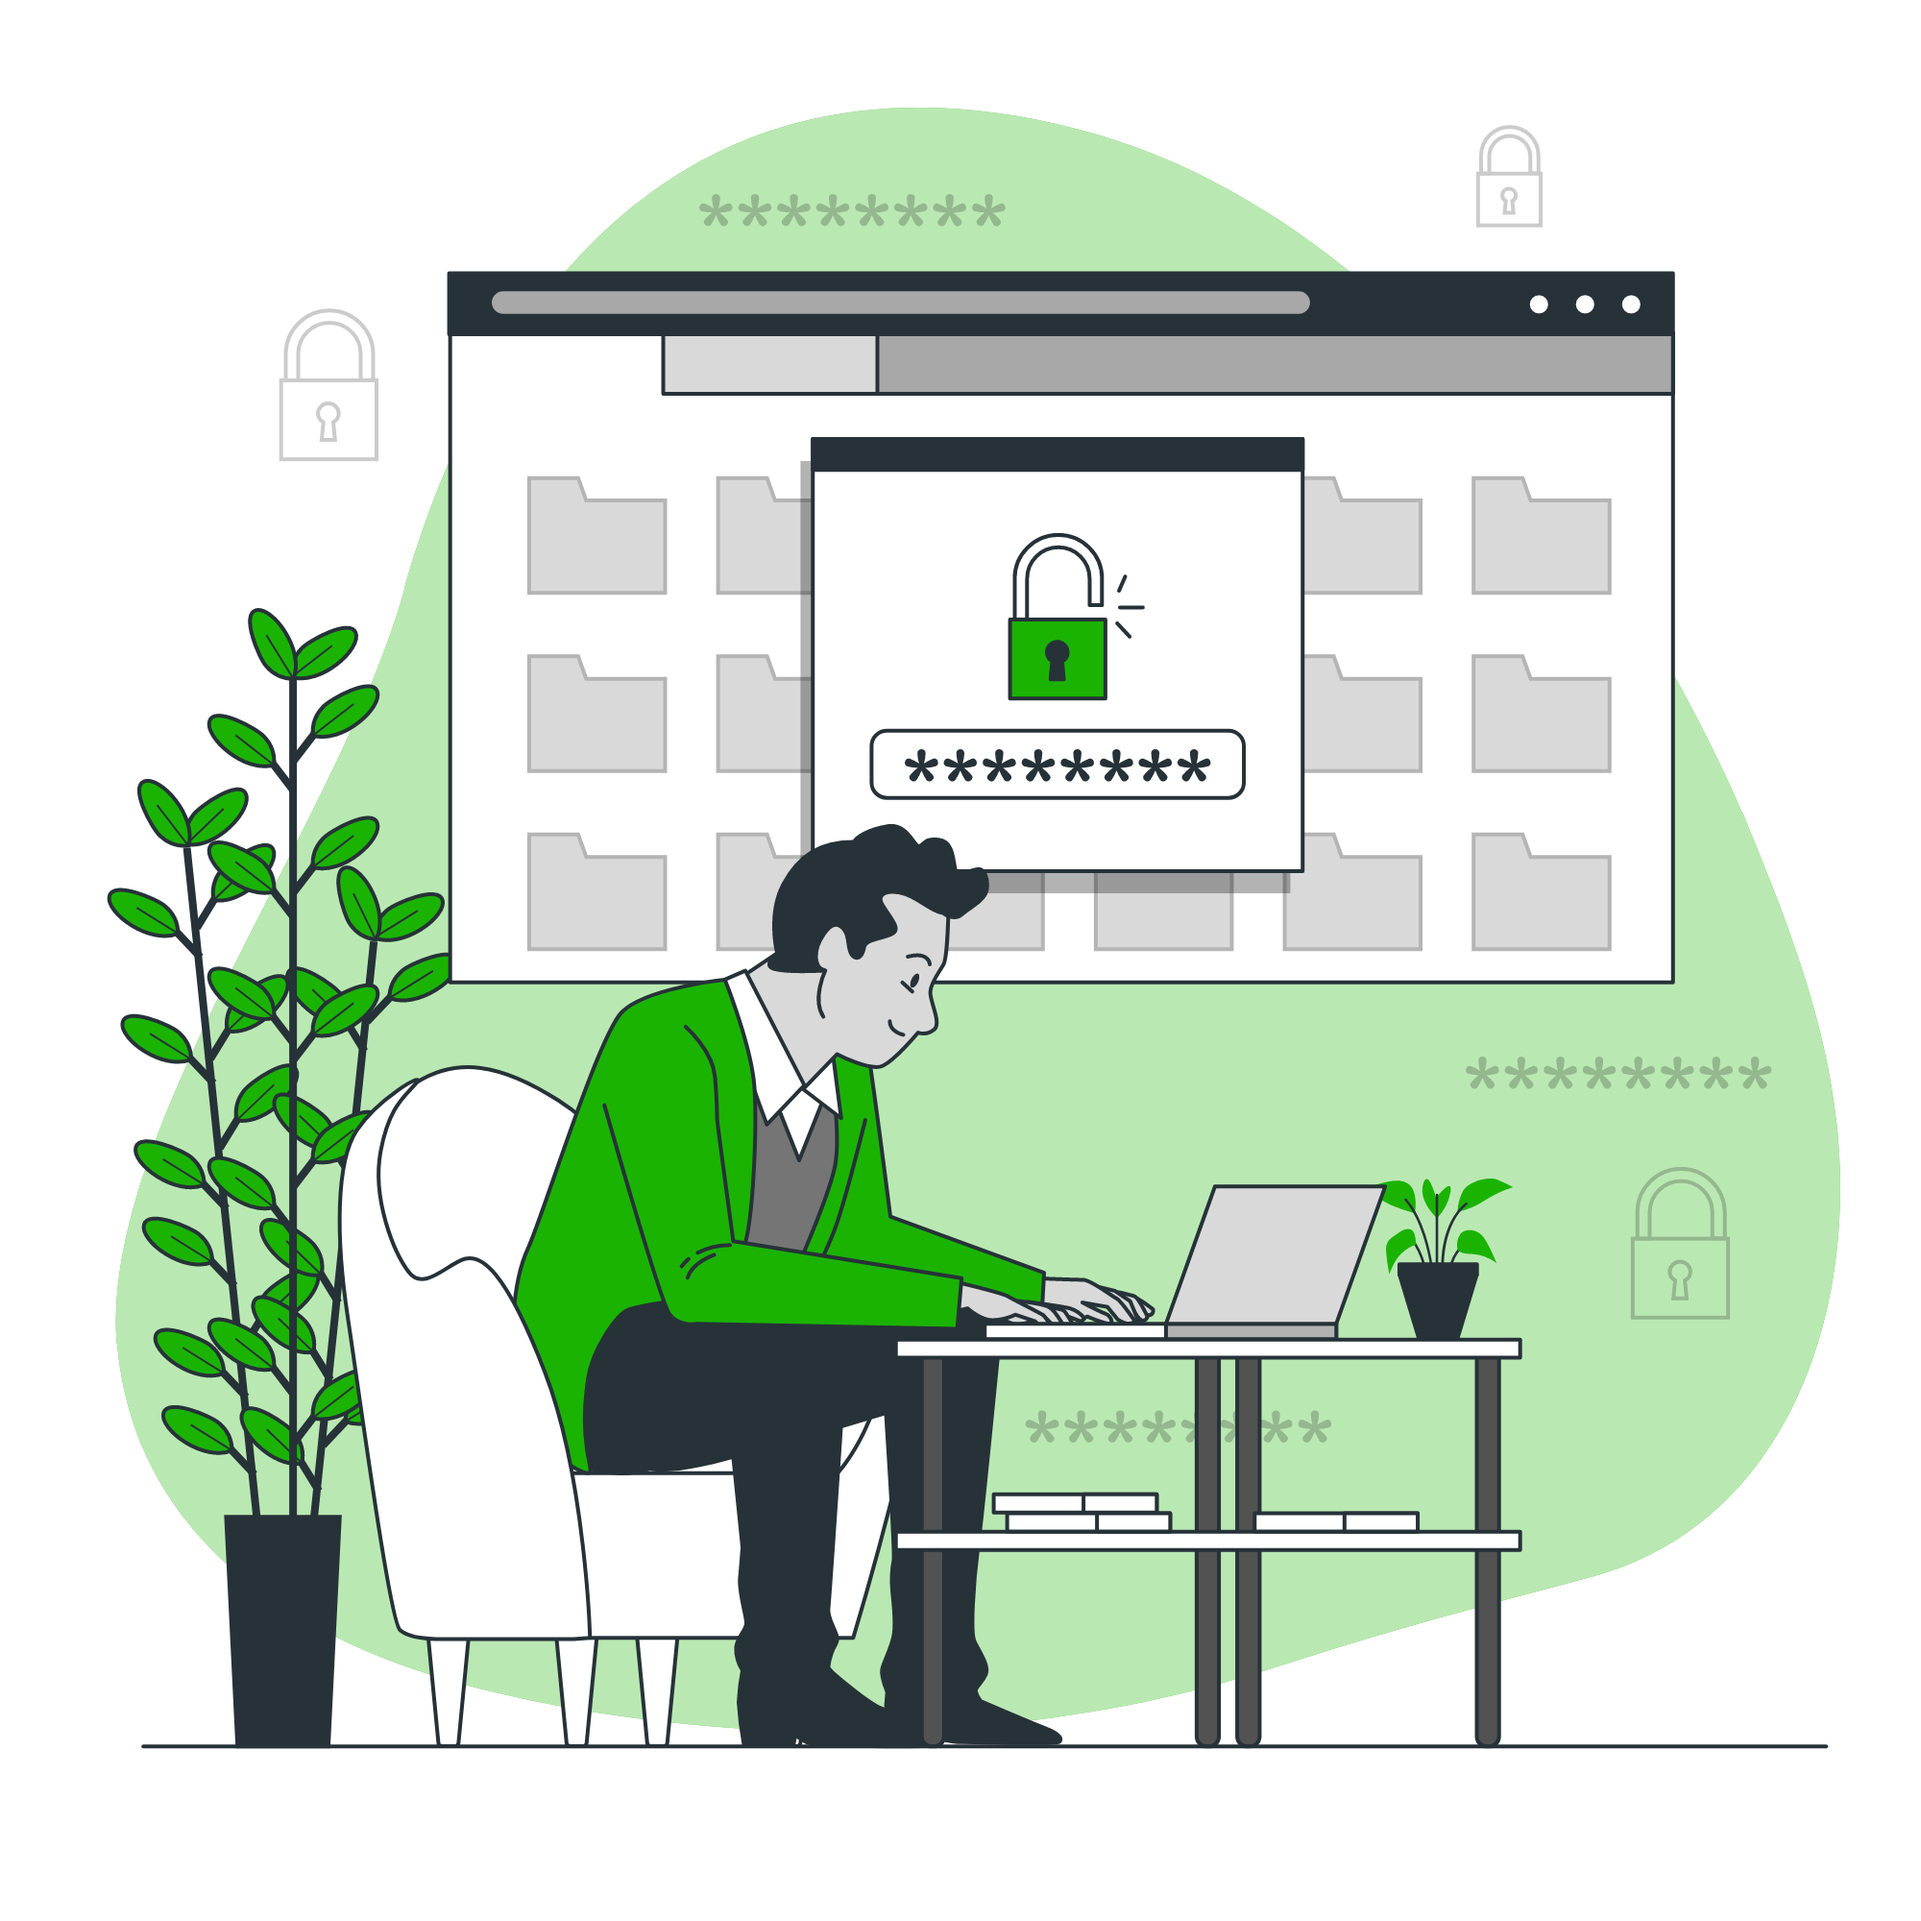
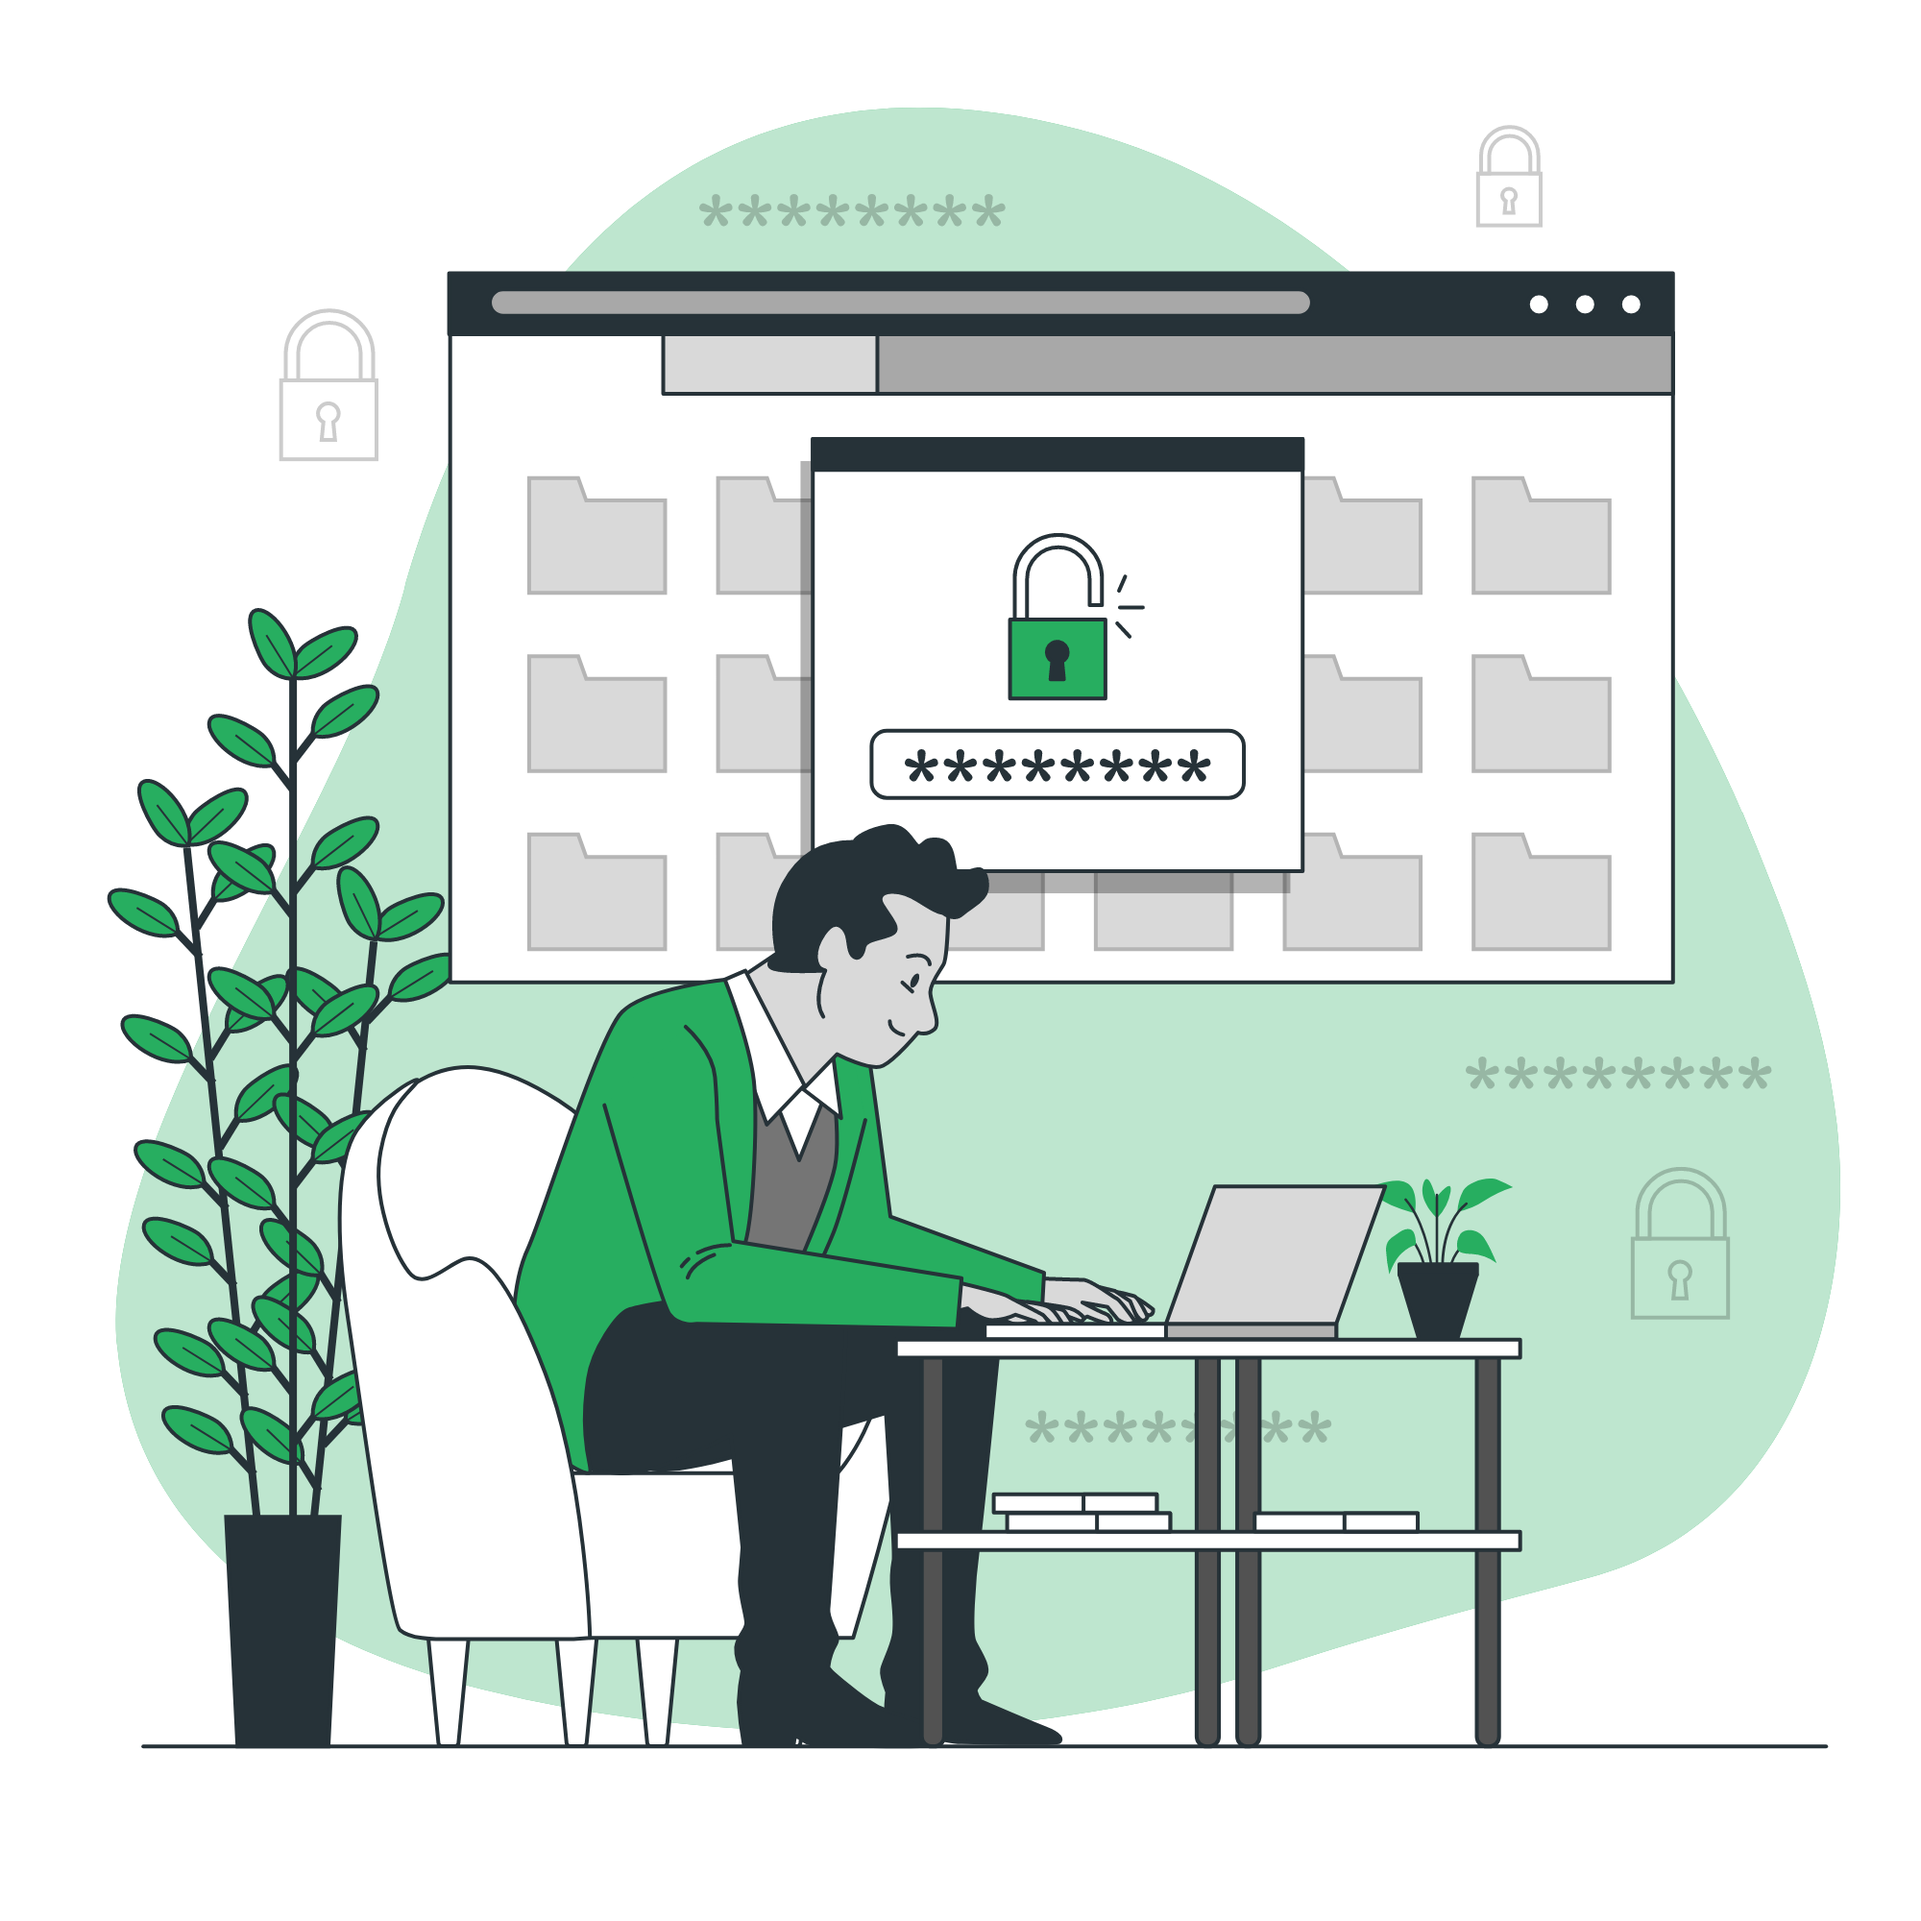
singup terminado

diff --git a/src/components/Session/SingUp.vue b/src/components/Session/SingUp.vue
@@ -1,0 +1,295 @@
+<template>
+    <div class="main__login">
+        <div class="container__login">
+            <div class="container__login--inputData">
+                
+                <div class="login--inputDataUser">
+                    <img class="inputDataUserImg"  src="../../assets/user.png"/>
+                    <input type="text" placeholder="Nombre">
+                </div>
+
+                <div class="login--inputDataPass">
+                    <img class="inputDataPassImg" src="../../assets/key.png"/>
+                    <input type="Text" placeholder="Apellido">
+                </div>
+
+                <div class="login--inputDataPass">
+                    <img class="inputDataPassImg" src="../../assets/key.png"/>
+                    <input type="password" placeholder="Contraseña">
+                </div>
+
+                <div class="login--inputDataPass">
+                    <img class="inputDataPassImg" src="../../assets/id.png"/>
+                    <input type="text" placeholder="Cedula">
+                </div>
+
+                <div class="login--inputDataPass">
+                    <img class="inputDataPassImg" src="../../assets/phone.png"/>
+                    <input type="text" placeholder="Telefono">
+                </div>
+
+                <div class="login--inputDataPass">
+                    <img class="inputDataPassImg" src="../../assets/calendar.png"/>
+                    <input type="text" placeholder="Fecha de Nacimiento">
+                </div>
+
+                <div class="login--inputDataPass">
+                    <img class="inputDataPassImg" src="../../assets/placeholder.png"/>
+                    <input type="text" placeholder="Ciudad">
+                </div>
+
+                <div class="login--inputDataPass">
+                    <img class="inputDataPassImg" src="../../assets/arroba.png"/>
+                    <input type="text" placeholder="Email">
+                </div>
+
+                <div class="login--inputDataPass">
+                    <img class="inputDataPassImg" src="../../assets/gear.png"/>
+                    <input type="text" placeholder="Role">
+                </div>
+
+                <div class="login--buttons">
+                    <div class="login--buttonsSession">
+                        <button class="buttonsSession--login">Registrarme</button> 
+                    </div>
+                </div>
+            </div>
+
+            <div class="container__login--mainImage">
+                <img class="mainImage"  src="../../assets/register.png" alt="">
+            </div>
+        </div>
+    </div>
+</template>
+
+<script>
+    export default{
+        name: "signup",
+        data: function() {},
+        methods:{},
+        created: function (){}
+    }
+</script>
+
+
+<style scoped>
+*{
+    margin: 0;
+    padding: 0;
+    box-sizing: border-box;
+    font-family: Tahoma
+}
+
+.main__login{
+    height: auto;
+    margin:45px;
+    width: 100%;
+
+}
+
+.container__login{
+    background-color:#F3F4ED;
+    border: none;
+    border-radius:25px;
+    display: flex;
+    height: 650px;
+    justify-content: space-between;
+    margin: auto;
+    width: 840px;
+}
+
+/* imagen principal*/
+
+
+.container__login--mainImage{
+    align-items: center;
+    background-color: rgba(39,174,96,1);
+    border-radius: 25px;
+    display:flex;
+    justify-content:center;
+    width:550px;
+}
+
+
+
+.mainImage{
+    height: 430px;
+    width: 430px;
+}
+
+
+.container__login--inputData{
+    align-self:center;
+    display: flex;
+    flex-direction: column;
+    height:fit-content;
+    justify-content:center;
+    margin:0 auto;
+    width:28%;
+}
+
+
+.login--inputDataUser, .login--inputDataPass{
+    display: flex;
+    flex-direction: row;
+    height: fit-content;
+    padding: 5px
+}
+
+.inputDataUserImg, .inputDataPassImg {
+    align-self:center;
+    border: 1px solid #6E7C7C;
+    border-radius: 3px;
+    display:flex;
+    height:35px;
+    justify-self:center;
+    padding:6px;
+    width:35px;
+}
+
+.login--inputDataUser > input{
+    align-self: center;
+    border: 1px solid  #6E7C7C;
+    border-radius: 2px;
+    display: flex;
+    flex-direction: column;
+    font-size:1.2rem;
+    height: 35px;
+    justify-self: center;
+    margin: 5px;
+    padding-left:5px;
+    width: 85%;
+}
+
+.login--inputDataPass > input {
+    align-self: center;
+    border: 1px solid  #6E7C7C;
+    border-radius: 2px;
+    display: flex;
+    flex-direction: column;
+    font-size:1.2rem;
+    height: 35px;
+    justify-self: center;
+    margin: 5px;
+    padding-left:5px;
+    width: 85%;
+}
+
+.login--buttons{
+    display: flex;
+    flex-direction: column;
+    margin-top: 20px;
+}
+
+.login--buttonsSession{
+    align-items:center; 
+    display: flex;
+    height:40px;
+    justify-content:center;
+    margin-left: 7px;
+    width: 91%;
+}
+
+.login--buttonsSession > label{
+    align-items:center;
+    display:flex;
+    justify-content:center;
+}
+
+.buttonsSession--remember > input{
+    align-self: center;
+    margin-right:2px;
+}
+
+.buttonsSession--login{
+    background-color: #2ecc71;
+    border: none;
+    border-radius: 3px;
+    border-bottom: 5px solid #27ae60;
+    color: #FFF;
+    cursor:pointer;
+    float: left;
+    font-size: 14px;
+    height:30px;
+    text-decoration: none;
+    text-shadow: 0px -2px #27ae60;
+    -webkit-transition: all 0.1s;
+    transition: all 0.1s;
+    width:100px;
+}
+
+.buttonsSession--login:hover, .buttonsSession--login:active {
+    border-bottom: 1px solid #2ecc71;
+    -webkit-transform: translate(0px,5px);
+    -ms-transform: translate(0px,5px);
+    transform: translate(0px,5px);
+}
+
+.login--buttonsLinks{
+    display: flex;
+    flex-direction:row;
+    justify-content:space-between;
+    margin:13px 0 0 7px;
+    width:91%
+}
+
+.login--buttonsLinks > p {
+    color: rgba(24,179,2,1);
+    cursor:pointer;
+}
+
+.login--buttonsLinks > p > a{
+    font-size: 13px;
+}
+
+.login--buttonsLinks > p > a:hover{
+    text-decoration: underline;
+}
+
+/* Buttons Social Media*/
+
+.login--socialMedia{
+    align-items: center;
+    display: flex;
+    flex-direction: column;
+    margin-top:5px;
+    justify-content: center;
+}
+
+.login--socialMedia > p {
+    font-size: 12px;
+    margin-bottom:10px;
+}
+
+.login--socialMedia > button {
+    background-color: #2ecc71;
+    border-radius: 3px;
+    border: none;
+    border-bottom: 5px solid #27ae60;
+    color: #FFF;
+    cursor:pointer;
+    font-size: 14px;
+    height: 28px;
+    margin-top:9px;
+    transition: all 0.1s;
+    text-decoration: none;
+    text-shadow: 0px -2px #27ae60;
+    -webkit-transition: all 0.1s;
+    width: 90%
+}
+
+.login--socialMedia > button:hover, .login--socialMedia > button:active {
+    -webkit-transform: translate(0px,5px);
+    -ms-transform: translate(0px,5px);
+    transform: translate(0px,5px);
+    border-bottom: 1px solid #2ecc71;
+}
+
+.line{
+    background-color: #000;
+    border-radius:5px;
+    height: 3px;
+    margin-top:15px;
+}
+
+</style>

diff --git a/src/App.vue b/src/App.vue
@@ -50,12 +50,15 @@
       data: function() {},
       methods:{
         LoadLogin(){
-          this.$router.push({name: "login"})
+          this.$router.push({name: "login"});
+        },
+        loadSignup(){
+          this.$router.push({name: "signup"});
         }
 
       },
       created: function (){
-        this.LoadLogin()
+        this.LoadLogin();
       }
   }
 </script>

diff --git a/src/router.js b/src/router.js
@@ -18,11 +18,11 @@ const routes = [
     name: 'login',
     component: Login,
   },
-  // {
-  //   path: '/signup',
-  //   name: 'signup',
-  //   component: 'Signup',
-  // },
+  {
+    path: '/user/signup',
+    name: 'signup',
+    component: Singup,
+  },
   // {
   //   path: '/sales',
   //   name: 'sales',

diff --git a/src/components/Session/Login.vue b/src/components/Session/Login.vue
@@ -66,7 +66,7 @@
 
 .container__login--mainImage{
     align-items: center;
-    background-color: rgba(24,179,2,1);
+    background-color: rgba(39,174,96,1);
     border-radius: 25px;
     display:flex;
     justify-content:center;

diff --git a/src/main.js b/src/main.js
@@ -27,6 +27,6 @@ const apolloProvider = new createApolloProvider({
     defaultClient: apolloClient
 })
 
-createApp(App).use(router).mount('#app')
+createApp(App).use(router).use(apolloProvider).mount('#app')
 
 
